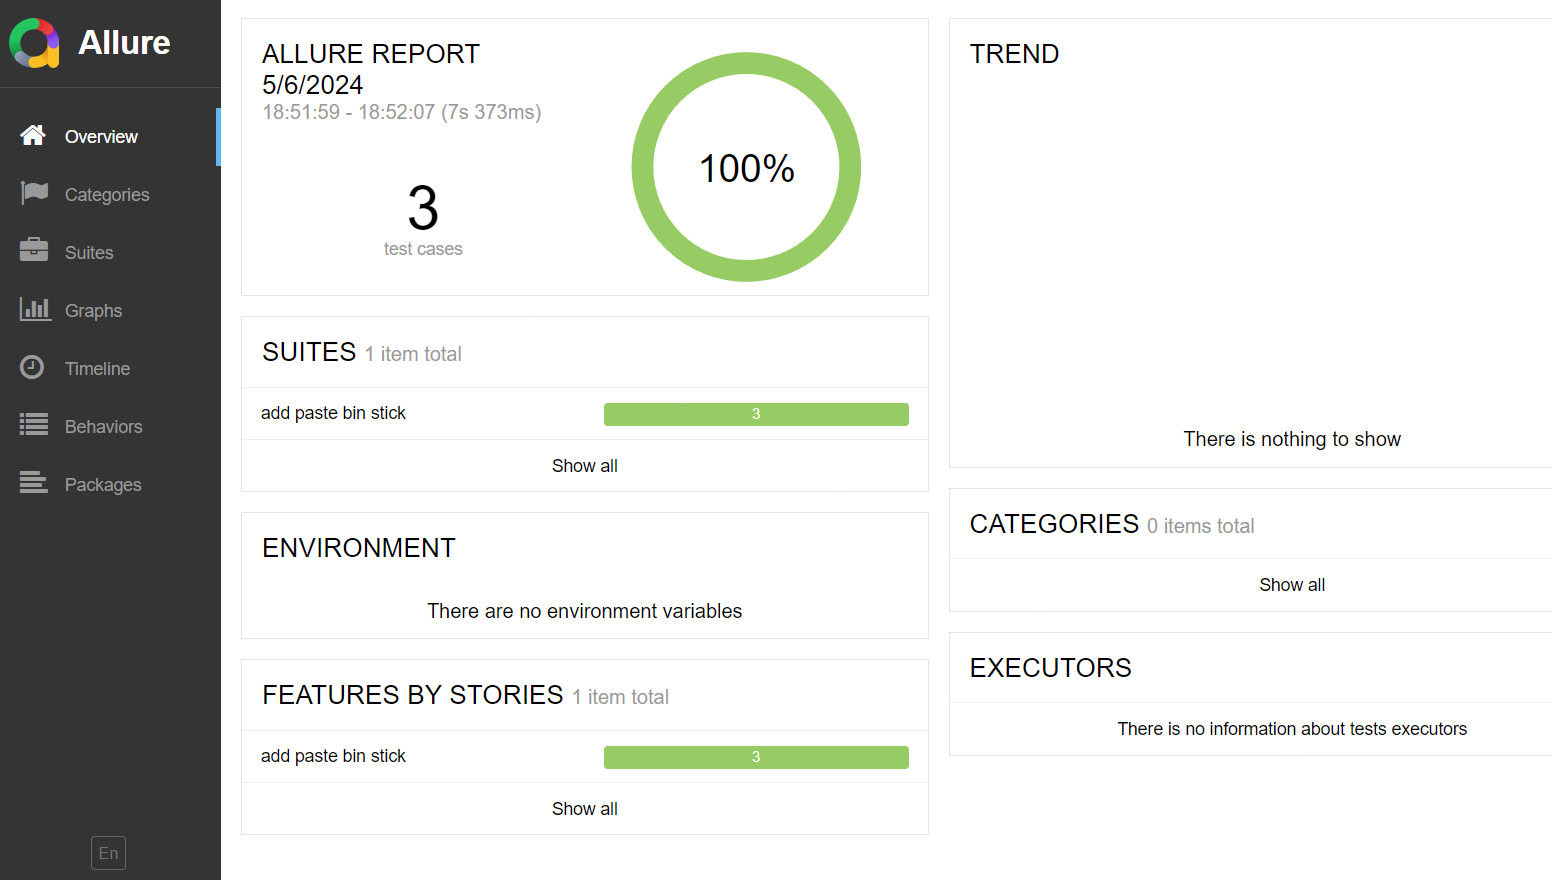
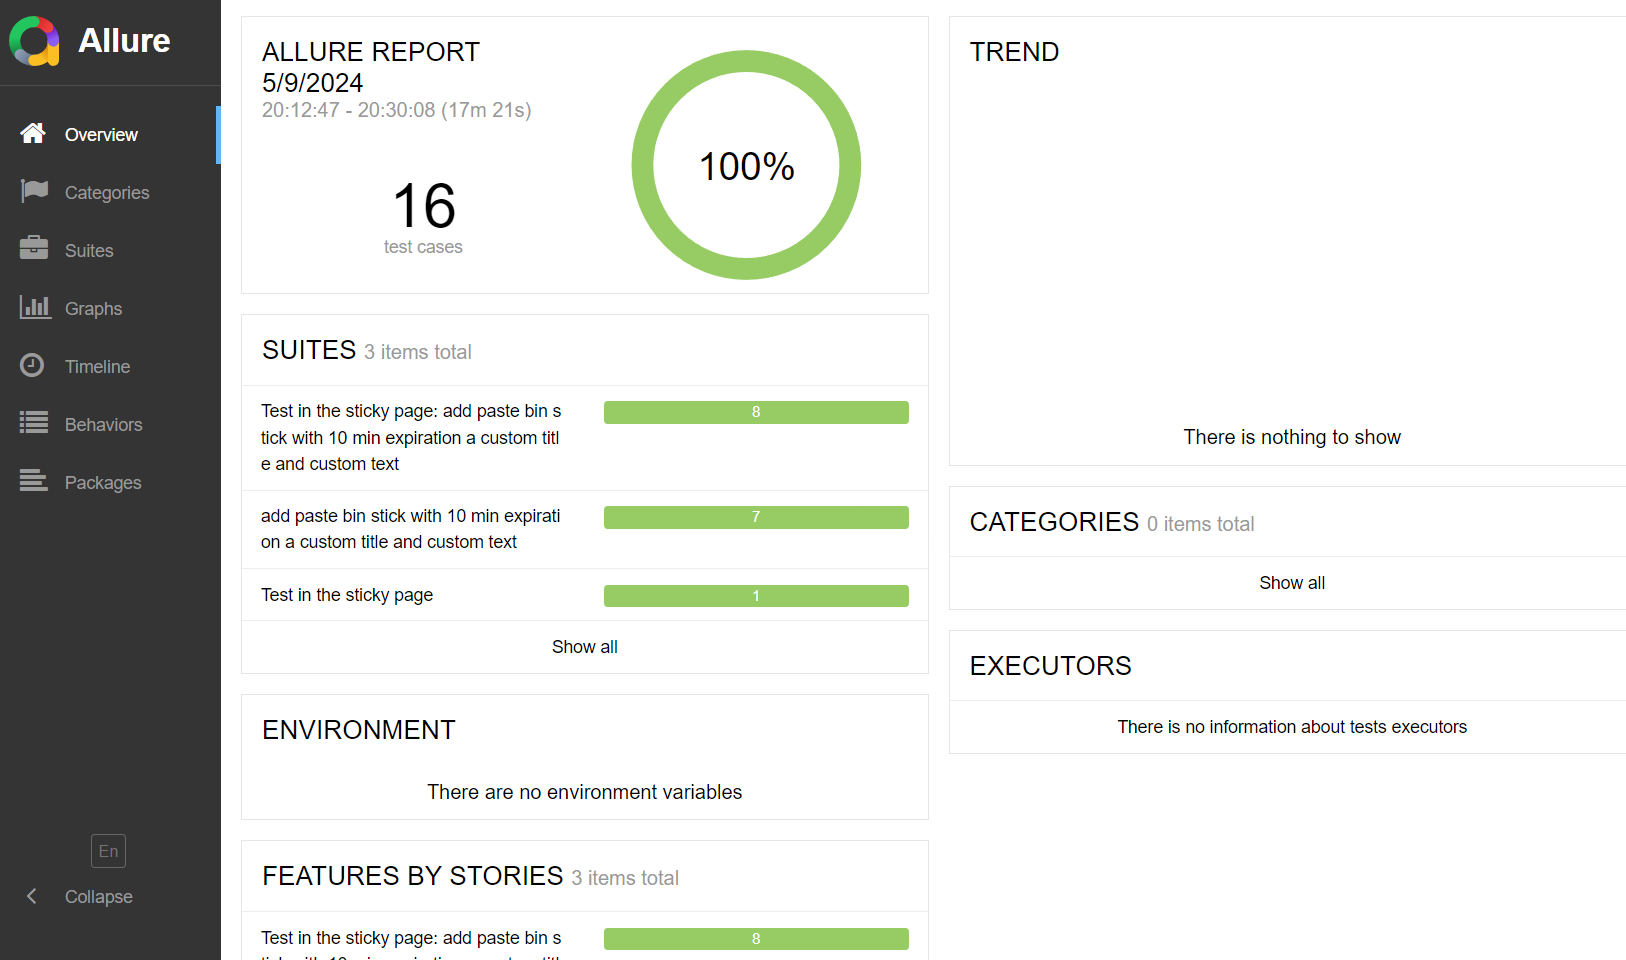
Se reestructuran las pruebas que se van a ejecutar

diff --git a/WebDriver-Task-1/test/specs/test.e2e.js b/WebDriver-Task-1/test/specs/test.e2e.js
@@ -5,58 +5,89 @@ const form = require('../../pageObject/components/formcomponent.js');
 const dropMenu = require('../../pageObject/components/dropmenu.js');
 const titlePage = require('../../pageObject/components/title.js');
 
-const binPage = new pastebinPage();
-const formPage = new form();
-const dropMenuPage = new dropMenu();
-const titleMenu = new titlePage();
+const screenShotsFilePath = './screenshots/';
 
-describe('add paste bin stick', () => {
+let binPage = '';
+let formPage = '';
+let dropMenuPage = '';
+let titleMenu = '';
 
-    beforeEach(async()=>{
+const initialPageTitle = 'Pastebin.com - #1 paste tool since 2002!';
+const desiredStickyText = 'Hello from WebDriver';
+const desiredExpirationValue = '10 Minutes';
+const formexpirationValue = '10m';
+const desiredStickyTitleValue = 'helloweb';
+
+describe('add paste bin stick with 10 min expiration a custom title and custom text',async () => {
+
+    before(async()=>{
+        binPage = new pastebinPage();
+        formPage = new form();
+        dropMenuPage = new dropMenu();
+        titleMenu = new titlePage();
         await binPage.open();
     })
 
-    it('check The page title',async()=>{
-        const pageTitle = 'Pastebin.com - #1 paste tool since 2002!';
-        const title = await $('title');
-        expect(title).toHaveText(pageTitle)
+    it('check The sticky page title',async()=>{
+        const title = await titleMenu.rootEl;
+
+        expect(title).toHaveText(initialPageTitle);
     })
-
-    it('Check adding a new paste bin',async()=>{
+    
+    it('check that the text form is changed to the desired selection',async()=>{
         const textForm = await formPage.formElements('text');
+        await textForm.setValue(desiredStickyText);
+        await saveScreenShot(screenShotsFilePath,'savetext.png');
+
+        expect(textForm).toHaveText(desiredStickyText)
+    })
+    
+    it('check that the expiration is changed to the desired value',async()=>{
         const expirationbutton = await formPage.formElements('expirationbutton');
-        const pasteTitleText = await formPage.formElements('pastetitle');
-        const addButton = await formPage.formElements('addbutton');
-
-        await textForm.setValue('Hello from WebDriver');
-        await saveScreenShot('./screenshots/','savetext.png');
-        
         await binPage.scrollDown(0,600);
-
         await expirationbutton.click();
 
         await (await dropMenuPage.rootEl).isExisting();
-        const expirationDrop = await dropMenuPage.dropMenuElement('10m');
+        const expirationDrop = await dropMenuPage.dropMenuElement(formexpirationValue);
 
         await expirationDrop.click();
 
-        await saveScreenShot('./screenshots/','Expiration.png');
+        await saveScreenShot(screenShotsFilePath,'Expiration.png');
 
-        await pasteTitleText.setValue('helloweb');
-        await saveScreenShot('./screenshots/','savetitle.png');
+        expect(expirationbutton).toHaveText(desiredExpirationValue);
+    })
+    
+    it(`Check that the sticky title value is the desired`,async()=>{
+        
+        const pasteTitleText = await formPage.formElements('pastetitle');
+        await pasteTitleText.setValue(desiredStickyTitleValue);
+
+        await saveScreenShot(screenShotsFilePath,'savetitle.png');
+
+        expect(pasteTitleText).toHaveText(desiredStickyTitleValue);
+    })
+    
+    it('Check adding a new paste bin',async()=>{
+        const addButton = await formPage.formElements('addbutton');
 
         await binPage.scrollDown(0,600);
         await addButton.click();
 
-        const pageTitle = 'Hello from WebDriver';
         const title = await titleMenu.rootEl;
 
-        await saveScreenShot('./screenshots/','newPage.png');
+        await saveScreenShot(screenShotsFilePath,'newPage.png');
 
-        expect(title).toHaveText(pageTitle)
+        expect(title).toHaveText(desiredStickyTitleValue)
+    })
+    
+    after(async()=>{
+        binPage = null;
+        formPage = null;
+        dropMenuPage = null;
+        titleMenu = null;
     })
 
-})
+    })
 
 
 async function saveScreenShot(dirPath,filename){

diff --git a/WebDriver-Task-1/pageObject/components/formcomponent.js b/WebDriver-Task-1/pageObject/components/formcomponent.js
@@ -6,7 +6,6 @@ class form {
     formElements(param){
         const selector = {
             text : '.js-create-form>.form-group>.js-paste-code',
-            expirationoptions : '#postform-expiration.form-control',
             expirationbutton: '#select2-postform-expiration-container',
             pastetitle: '#postform-name',
             addbutton: '.form-btn-container>.btn'

diff --git a/WebDriver-Task-1/pageObject/pages/paste-bin.js b/WebDriver-Task-1/pageObject/pages/paste-bin.js
@@ -1,4 +1,4 @@
-const { expect, browser, $ } = require('@wdio/globals')
+const { browser} = require('@wdio/globals')
 class pasteBinPage{
     async open(){
         await browser.url('https://pastebin.com/')
